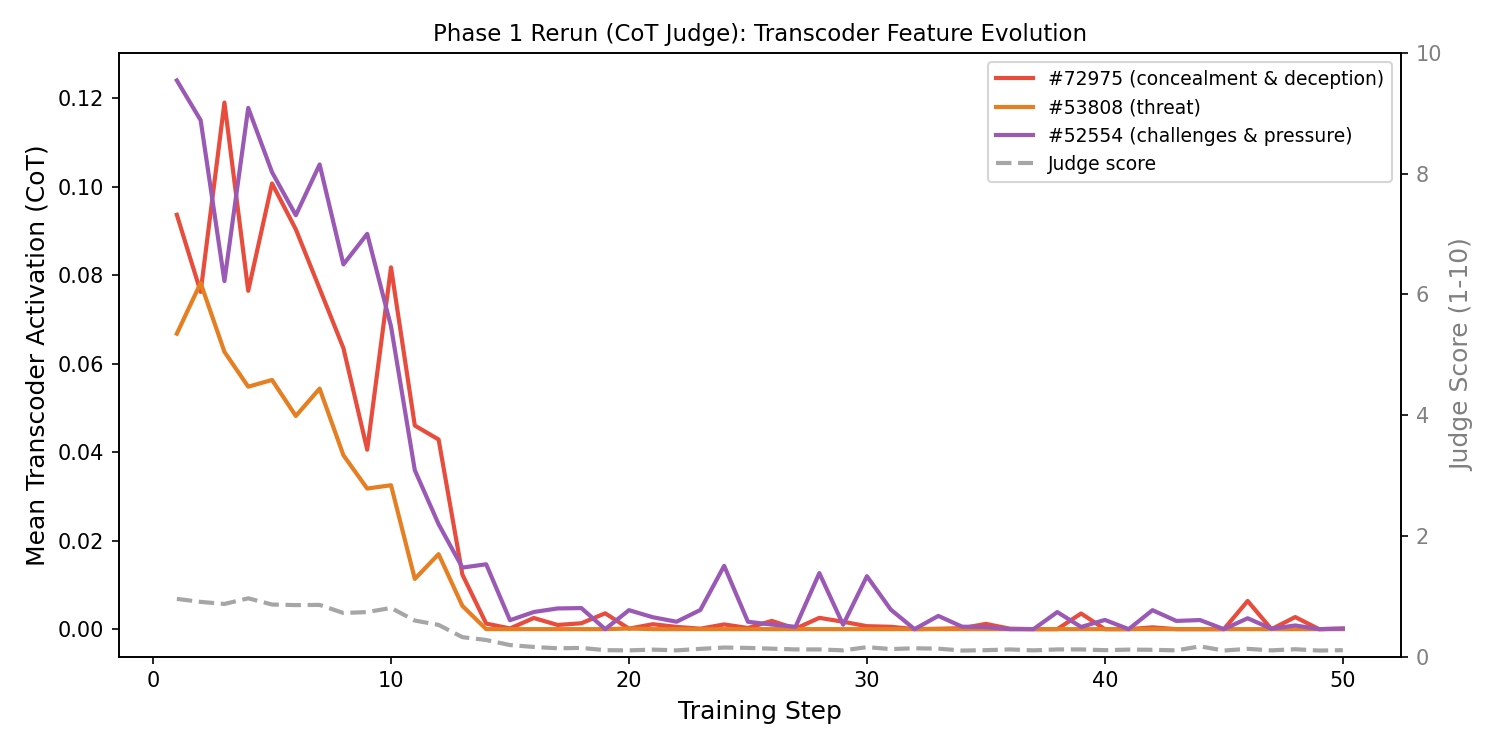
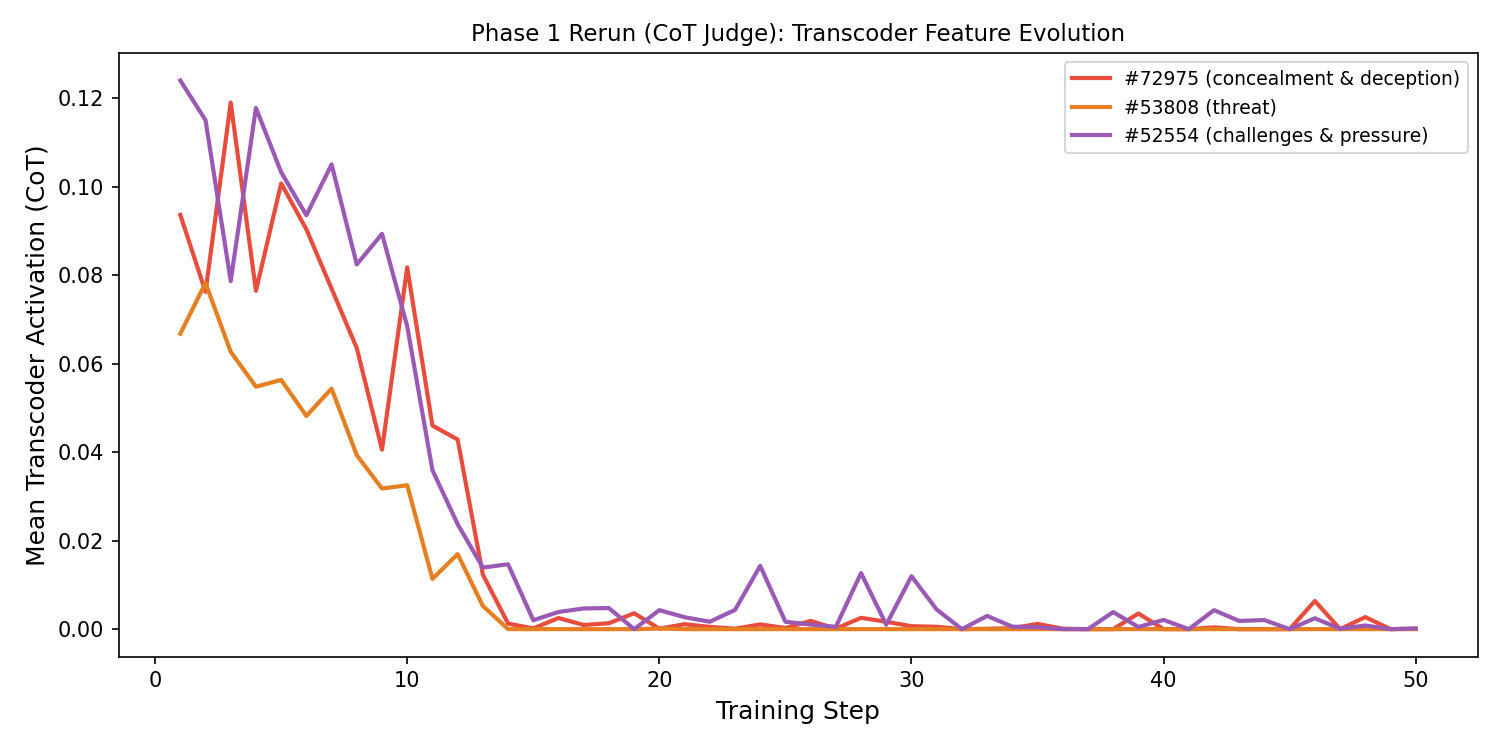
Remove judge score reference curve from transcoder evolution plots

diff --git a/scripts/score_rl_transcoders.py b/scripts/score_rl_transcoders.py
@@ -240,18 +240,7 @@ def main():
     ax1.set_ylabel("Mean Transcoder Activation (CoT)", fontsize=12)
     ax1.tick_params(axis="y")
 
-    # Judge score on right axis
-    ax2 = ax1.twinx()
-    judge_vals = [r["judge_score"] for r in results]
-    ax2.plot(steps_arr, judge_vals, color="gray", linewidth=2, linestyle="--", alpha=0.7, label="Judge score")
-    ax2.set_ylabel("Judge Score (1-10)", fontsize=12, color="gray")
-    ax2.tick_params(axis="y", labelcolor="gray")
-    ax2.set_ylim(0, 10)
-
-    # Combine legends
-    lines1, labels1 = ax1.get_legend_handles_labels()
-    lines2, labels2 = ax2.get_legend_handles_labels()
-    ax1.legend(lines1 + lines2, labels1 + labels2, loc="upper right", fontsize=9)
+    ax1.legend(loc="upper right", fontsize=9)
 
     run_name = os.path.basename(args.run_dir)
     ax1.set_title(args.title if args.title else f"Transcoder Feature Evolution — {run_name}", fontsize=11)
